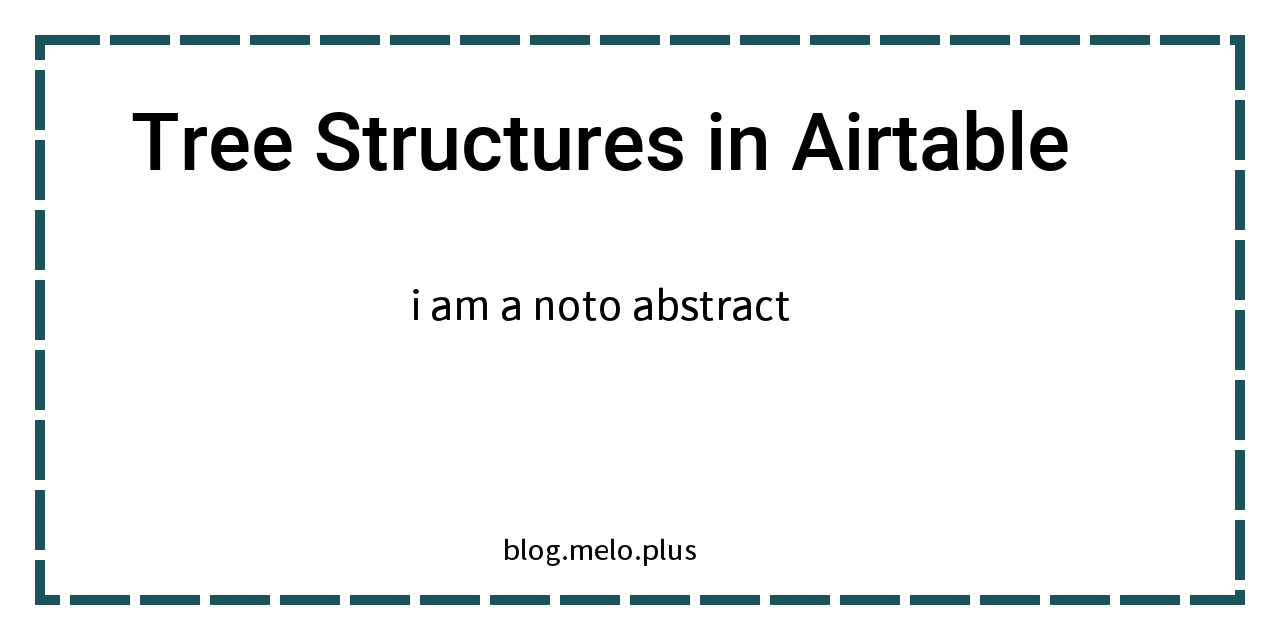
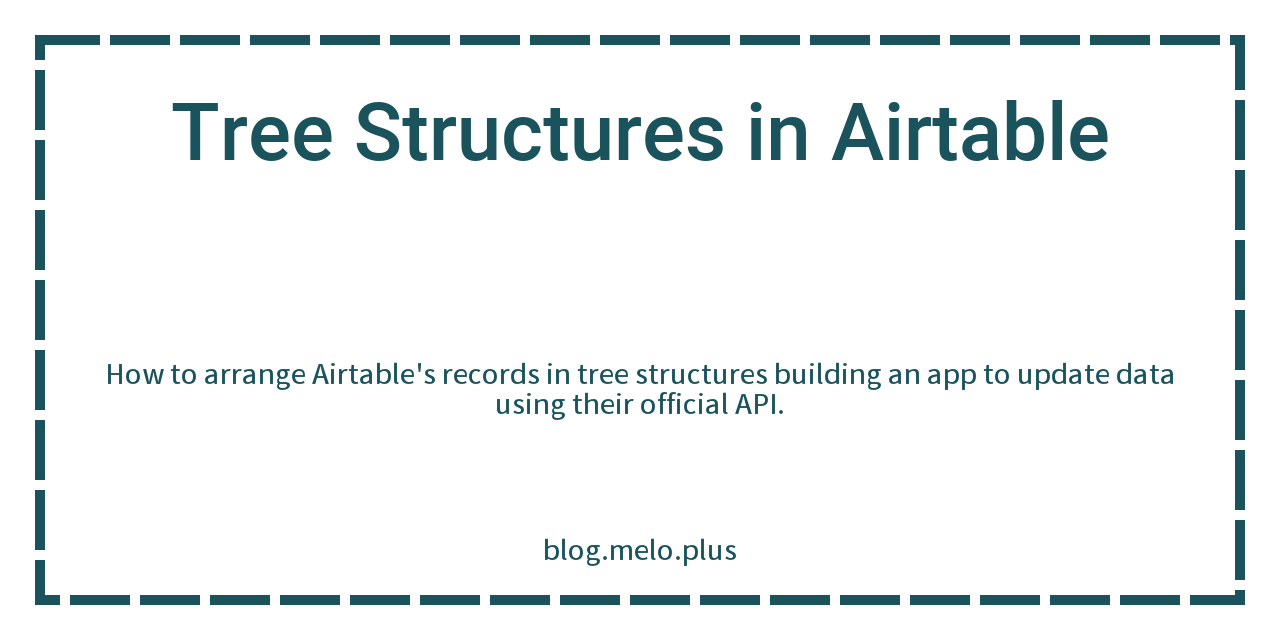
basic cover png created

diff --git a/config/create-cover.js b/config/create-cover.js
@@ -27,27 +27,18 @@ module.exports = function createCover(data) {
   context.strokeStyle = "#1A535C"
   context.strokeRect(margin, margin, width - 2 * margin, height - 2 * margin);
 
-  // heading
-  // https://developer.mozilla.org/en-US/docs/Web/API/Canvas_API/Tutorial/Drawing_text
-  const heading = data.title;
+  // text general
+  context.textAlign = 'center';
+  context.fillStyle = '#1A535C';
+  const textCenter = width / 2;
+  const textWidth = width - (4 * margin);
+
   context.font = '60pt "Roboto Medium"';
-  context.textAlign = 'center';
-  context.fillStyle = '#000';
-  context.fillText(heading, 600, 170);
+  fillText(context, data.title, textCenter, margin * 4, textWidth);
 
-  // abstract
-  const abstract = 'i am a noto abstract';
-  context.font = '30pt "Noto Sans JP Medium"';
-  context.textAlign = 'center';
-  context.fillStyle = '#000';
-  context.fillText(abstract, 600, height / 2);
-
-  // site
-  const site = 'blog.melo.plus';
-  context.font = '20pt "Noto Sans JP Medium"';
-  context.textAlign = 'center';
-  context.fillStyle = '#000';
-  context.fillText(site, 600, height - margin * 2);
+  context.font = '20pt "Noto Sans JP Medium"';  
+  fillText(context, data.abstract, textCenter, height * (3/5), textWidth);
+  fillText(context, 'blog.melo.plus', textCenter, height - margin * 2, textWidth);
 
   const buffer = canvas.toBuffer('image/png');
   fs.writeFileSync(coverPath, buffer);
@@ -61,4 +52,31 @@ function calcCoverPath(inputPath) {
   const fileName = inputPath.substring(dashPos + 1, dotPos);
   const coverPath = `${process.cwd()}\\docs\\media\\${fileName}-cover.png`;
   return coverPath;
+};
+
+function fillText(ctx, text, x, y, maxWidth) {
+  const lineGap = 10;
+  const fontHeight = parseInt(ctx.font.match(/\d+/), 10);
+  const lineHeight =  fontHeight + lineGap;
+  const wrapedText = parseLines(ctx, text, maxWidth);
+  wrapedText.forEach((line, i) => ctx.fillText(line, x, y + (i * lineHeight)));
+};
+
+function parseLines(ctx, text, maxWidth) {
+  var words = text.split(" ");
+  var lines = [];
+  var currentLine = words[0];
+
+  for (var i = 1; i < words.length; i++) {
+      var word = words[i];
+      var width = ctx.measureText(currentLine + " " + word).width;
+      if (width < maxWidth) {
+          currentLine += " " + word;
+      } else {
+          lines.push(currentLine);
+          currentLine = word;
+      }
+  }
+  lines.push(currentLine);
+  return lines;
 }
